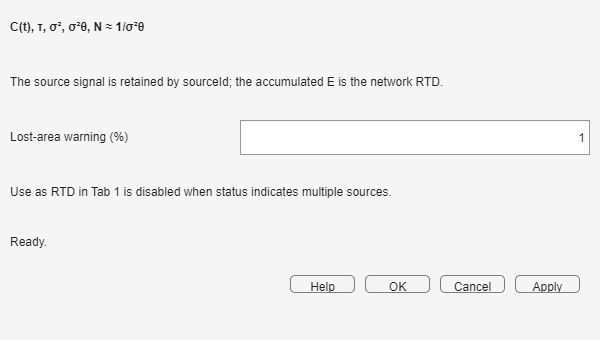
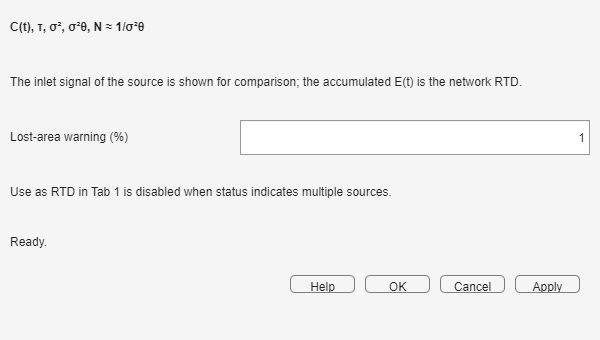
Make the tracer vessel dialog usable from the interface (T-200)
Fix the Vessel layout, add Add row/Remove/Import for RTD data and Browse
for sessions, enable only the controls of the selected origin, share the
two-column reader with the Source dialog and reword the Monitor note.

Changed region(s): [[0.06, 0.2059, 0.87, 0.2647]]

diff --git a/docs/guides/tracer-vessel.html b/docs/guides/tracer-vessel.html
@@ -4,6 +4,6 @@
 <section class="section" id="before"><h2>Before You Start</h2><p>Choose whether the residence time is known directly or from V/Q. Confirm that the final time is long enough to capture the RTD tail, especially for a CSTR or a low-Pe dispersion model.</p></section>
 <section class="section" id="dialog"><h2>Non-ideal Vessel Dialog</h2><figure class="figure-card"><img src="../assets/tracer/vessel-dialog.png" alt="Non-ideal Vessel dialog with model, residence basis, tanks, Peclet number, session, and RTD table"><figcaption>The visible fields support model, experimental-data, and saved-session origins.</figcaption></figure></section>
 <section class="section" id="models"><h2>Select an RTD Model</h2><table><tr><th>Model</th><th>What to enter</th><th>Interpretation</th></tr><tr><td>CSTR</td><td>&tau; or V with the incoming Q</td><td>Exponential tail for one perfectly mixed vessel.</td></tr><tr><td>PFR</td><td>&tau; or V with Q</td><td>Concentrated delay near the nominal residence time.</td></tr><tr><td>Tanks</td><td>&tau; or V, and integer N</td><td>N equal mixed tanks in series; larger N narrows the distribution.</td></tr><tr><td>Dispersion</td><td>&tau; or V, Peclet number Pe, open or closed boundary</td><td>Axial dispersion; larger Pe approaches plug flow. Boundary choice must match the experimental interpretation.</td></tr></table><ol><li>Select <strong>Model</strong> as the RTD origin.</li><li>Select the model and <strong>Tau</strong> or <strong>Volume</strong> basis.</li><li>Complete only the parameters required by that model and press <strong>Apply</strong>.</li></ol></section>
-<section class="section" id="data-session"><h2>Use RTD Data or a Session</h2><p>For <strong>Data</strong>, enter or import paired t and E values. The distribution is placed on the common grid and normalized for use. For <strong>Session</strong>, choose a saved Non-Ideal Reactor Analysis session containing an RTD; this reuses the measured or fitted distribution already prepared there.</p><div class="callout info"><strong>Series behavior:</strong> placing vessels one after another convolves their RTDs. Mean residence times and variances add when the captured time range is sufficient.</div></section>
+<section class="section" id="data-session"><h2>Use RTD Data or a Session</h2><h3>Tabulated data</h3><ol><li>Select <strong>Data</strong> as the RTD origin.</li><li>Enter paired t and E values in the table. Use <strong>Add row</strong> to append a pair or <strong>Remove</strong> to delete the last pair.</li><li>To load an existing two-column CSV, text, or spreadsheet file, press <strong>Import...</strong> and select it.</li><li>Press <strong>Apply</strong>. The distribution is placed on the common grid and normalized for use.</li></ol><h3>Saved analysis session</h3><ol><li>Select <strong>Session</strong> as the RTD origin.</li><li>Press <strong>Browse...</strong> and select a saved Non-Ideal Reactor Analysis <code>.mat</code> session containing an RTD.</li><li>Press <strong>Apply</strong> to reuse the measured or fitted distribution from that session.</li></ol><div class="callout info"><strong>Series behavior:</strong> placing vessels one after another convolves their RTDs. Mean residence times and variances add when the captured time range is sufficient.</div></section>
 <section class="section" id="mistakes"><h2>Frequent Errors</h2><table><tr><th>Symptom</th><th>What to do</th></tr><tr><td>Pe is requested</td><td>Enter a positive Peclet number and select the intended open or closed boundary.</td></tr><tr><td>Volume basis cannot be evaluated</td><td>Verify that the upstream source supplies a positive constant Q.</td></tr><tr><td>An RTD session cannot be used</td><td>Select a session that contains valid time and RTD data.</td></tr><tr><td>The CSTR tail is truncated</td><td>Increase t<sub>final</sub> in Tracer Flowsheet.</td></tr></table><div class="footer-nav"><a class="button alt" href="tracer-source.html">Previous: Tracer Source</a><a class="button" href="tracer-splitter.html">Next: Tracer Splitter</a></div></section>
 </div></body></html>

diff --git a/+nirp/+tracerflowsheet/VesselDialog.m b/+nirp/+tracerflowsheet/VesselDialog.m
@@ -2,25 +2,95 @@ classdef VesselDialog < handle
     % VesselDialog selects a model, data, or app session RTD.
     % =========================================================================
     % Javier Berenguer Sabater
-    % Created: October 22, 2026. Last update: October 22, 2026
+    % Created: October 22, 2026. Last update: October 23, 2026
     % =========================================================================
-    properties (SetAccess=private),BlockPath;Figure;OriginDropDown;ModelDropDown;BasisDropDown;TauField;VolumeField;NField;PeField;BoundaryDropDown;DataTable;SessionField;StatusLabel;end
+    properties (SetAccess=private)
+        BlockPath; Figure; OriginDropDown; ModelDropDown; BasisDropDown;
+        TauField; VolumeField; NField; PeField; BoundaryDropDown;
+        DataTable; SessionField; StatusLabel;
+        AddRowButton; RemoveRowButton; ImportButton; BrowseButton;
+    end
     methods
-        function obj=VesselDialog(block,varargin),p=inputParser;addParameter(p,'Visible','on');parse(p,varargin{:});obj.BlockPath=getfullname(block);assertSystem(obj.BlockPath,'nirp.tracerblocks.Vessel');obj.build(char(p.Results.Visible));obj.load();end
+        function obj=VesselDialog(block,varargin)
+            p=inputParser;addParameter(p,'Visible','on');parse(p,varargin{:});
+            obj.BlockPath=getfullname(block);assertSystem(obj.BlockPath,'nirp.tracerblocks.Vessel');
+            obj.build(char(p.Results.Visible));obj.load();
+        end
         function delete(obj),if ~isempty(obj.Figure)&&isvalid(obj.Figure),delete(obj.Figure),end,end
-        function setModel(obj,model,varargin),obj.OriginDropDown.Value='Model';obj.ModelDropDown.Value=char(model);for k=1:2:numel(varargin),name=lower(varargin{k});value=varargin{k+1};switch name,case 'tau',obj.BasisDropDown.Value='Tau';obj.TauField.Value=value;case 'volume',obj.BasisDropDown.Value='Volume';obj.VolumeField.Value=value;case 'n',obj.NField.Value=value;case 'pe',obj.PeField.Value=value;case 'boundary',obj.BoundaryDropDown.Value=char(value);end,end,end
-        function setData(obj,t,e),obj.OriginDropDown.Value='Data';obj.DataTable.Data=num2cell([t(:) e(:)]);end
-        function setSession(obj,path),obj.OriginDropDown.Value='Session';obj.SessionField.Value=char(path);end
-        function value=getValues(obj),value=struct('Origin',string(obj.OriginDropDown.Value),'Model',string(obj.ModelDropDown.Value),'Basis',string(obj.BasisDropDown.Value),'Tau',obj.TauField.Value,'Volume',obj.VolumeField.Value,'N',obj.NField.Value,'Pe',obj.PeField.Value,'Boundary',string(obj.BoundaryDropDown.Value),'Data',{obj.DataTable.Data},'Session',string(obj.SessionField.Value));end
-        function ok=apply(obj)
-            ok=false;try,nirp.tracerflowsheet.validateSeparation(bdroot(obj.BlockPath));grid=nirp.tracerflowsheet.gridForBlock(obj.BlockPath);origin=obj.OriginDropDown.Value;
-                switch origin
-                    case 'Model',if strcmp(obj.BasisDropDown.Value,'Volume'),parameters=struct('V',obj.VolumeField.Value);else,parameters=struct('tau',obj.TauField.Value);end;if strcmp(obj.ModelDropDown.Value,'Tanks'),parameters.N=obj.NField.Value;end;if strcmp(obj.ModelDropDown.Value,'Dispersion'),parameters.Pe=obj.PeField.Value;parameters.boundary=obj.BoundaryDropDown.Value;end;nirp.tracer.rtdModel(grid,obj.ModelDropDown.Value,parameters,1);set_param(obj.BlockPath,'Model',obj.ModelDropDown.Value,'ResidenceBasis',obj.BasisDropDown.Value,'Tau',num2str(obj.TauField.Value,17),'Volume',num2str(obj.VolumeField.Value,17),'N',num2str(obj.NField.Value,17),'Pe',num2str(obj.PeField.Value,17),'Boundary',obj.BoundaryDropDown.Value);
-                    case 'Data',d=cell2mat(obj.DataTable.Data(:,1:2));nirp.tracer.rtdData(grid,d(:,1),d(:,2));set_param(obj.BlockPath,'DataTime',mat2str(d(:,1)',17),'DataE',mat2str(d(:,2)',17));
-                    case 'Session',nirp.tracer.rtdSession(grid,obj.SessionField.Value);set_param(obj.BlockPath,'SessionFile',obj.SessionField.Value);
+        function setModel(obj,model,varargin)
+            obj.OriginDropDown.Value='Model';obj.ModelDropDown.Value=char(model);
+            for k=1:2:numel(varargin)
+                name=lower(varargin{k});value=varargin{k+1};
+                switch name
+                    case 'tau',obj.BasisDropDown.Value='Tau';obj.TauField.Value=value;
+                    case 'volume',obj.BasisDropDown.Value='Volume';obj.VolumeField.Value=value;
+                    case 'n',obj.NField.Value=value;
+                    case 'pe',obj.PeField.Value=value;
+                    case 'boundary',obj.BoundaryDropDown.Value=char(value);
                 end
-                set_param(obj.BlockPath,'Origin',origin);obj.StatusLabel.Text='Fully specified';obj.StatusLabel.BackgroundColor=[.82 .94 .82];ok=true;
-            catch e,obj.StatusLabel.Text=e.message;obj.StatusLabel.BackgroundColor=[1 .75 .75];end
+            end
+            obj.refreshControls();
+        end
+        function setData(obj,t,e)
+            obj.OriginDropDown.Value='Data';obj.DataTable.Data=num2cell([t(:) e(:)]);obj.refreshControls();
+        end
+        function addRow(obj)
+            data=obj.DataTable.Data;data(end+1,:)={0,0};obj.DataTable.Data=data;
+        end
+        function removeRow(obj)
+            data=obj.DataTable.Data;if size(data,1)>1,data(end,:)=[];obj.DataTable.Data=data;end
+        end
+        function importFile(obj,path)
+            data=nirp.tracerflowsheet.readTwoColumnFile(path,'RTD');obj.setData(data(:,1),data(:,2));
+        end
+        function importInteractive(obj)
+            [file,folder]=uigetfile({'*.csv;*.txt;*.xlsx','RTD data'},'Import RTD data');
+            if isequal(file,0),return,end
+            obj.importFile(fullfile(folder,file));
+        end
+        function setSession(obj,path),obj.setSessionFile(path);end
+        function setSessionFile(obj,path)
+            obj.OriginDropDown.Value='Session';obj.SessionField.Value=char(path);obj.refreshControls();
+        end
+        function browseSession(obj)
+            [file,folder]=uigetfile({'*.mat','MATLAB session (*.mat)'},'Select analysis session');
+            if isequal(file,0),return,end
+            obj.setSessionFile(fullfile(folder,file));
+        end
+        function value=getValues(obj)
+            value=struct('Origin',string(obj.OriginDropDown.Value),'Model',string(obj.ModelDropDown.Value), ...
+                'Basis',string(obj.BasisDropDown.Value),'Tau',obj.TauField.Value, ...
+                'Volume',obj.VolumeField.Value,'N',obj.NField.Value,'Pe',obj.PeField.Value, ...
+                'Boundary',string(obj.BoundaryDropDown.Value),'Data',{obj.DataTable.Data}, ...
+                'Session',string(obj.SessionField.Value));
+        end
+        function ok=apply(obj)
+            ok=false;
+            try
+                nirp.tracerflowsheet.validateSeparation(bdroot(obj.BlockPath));
+                grid=nirp.tracerflowsheet.gridForBlock(obj.BlockPath);origin=obj.OriginDropDown.Value;
+                switch origin
+                    case 'Model'
+                        if strcmp(obj.BasisDropDown.Value,'Volume'),parameters=struct('V',obj.VolumeField.Value);else,parameters=struct('tau',obj.TauField.Value);end
+                        if strcmp(obj.ModelDropDown.Value,'Tanks'),parameters.N=obj.NField.Value;end
+                        if strcmp(obj.ModelDropDown.Value,'Dispersion'),parameters.Pe=obj.PeField.Value;parameters.boundary=obj.BoundaryDropDown.Value;end
+                        nirp.tracer.rtdModel(grid,obj.ModelDropDown.Value,parameters,1);
+                        set_param(obj.BlockPath,'Model',obj.ModelDropDown.Value,'ResidenceBasis',obj.BasisDropDown.Value, ...
+                            'Tau',num2str(obj.TauField.Value,17),'Volume',num2str(obj.VolumeField.Value,17), ...
+                            'N',num2str(obj.NField.Value,17),'Pe',num2str(obj.PeField.Value,17), ...
+                            'Boundary',obj.BoundaryDropDown.Value);
+                    case 'Data'
+                        data=cell2mat(obj.DataTable.Data(:,1:2));nirp.tracer.rtdData(grid,data(:,1),data(:,2));
+                        set_param(obj.BlockPath,'DataTime',mat2str(data(:,1)',17),'DataE',mat2str(data(:,2)',17));
+                    case 'Session'
+                        nirp.tracer.rtdSession(grid,obj.SessionField.Value);
+                        set_param(obj.BlockPath,'SessionFile',obj.SessionField.Value);
+                end
+                set_param(obj.BlockPath,'Origin',origin);obj.StatusLabel.Text='Fully specified';
+                obj.StatusLabel.BackgroundColor=[.82 .94 .82];ok=true;
+            catch exception
+                obj.StatusLabel.Text=exception.message;obj.StatusLabel.BackgroundColor=[1 .75 .75];
+            end
         end
         function accept(obj),if obj.apply(),delete(obj),end,end
         function cancel(obj),delete(obj),end
@@ -32,9 +102,57 @@ classdef VesselDialog < handle
         end
     end
     methods (Access=private)
-        function load(obj),obj.OriginDropDown.Value=get_param(obj.BlockPath,'Origin');obj.ModelDropDown.Value=get_param(obj.BlockPath,'Model');obj.BasisDropDown.Value=get_param(obj.BlockPath,'ResidenceBasis');obj.TauField.Value=str2double(get_param(obj.BlockPath,'Tau'));obj.VolumeField.Value=str2double(get_param(obj.BlockPath,'Volume'));obj.NField.Value=str2double(get_param(obj.BlockPath,'N'));obj.PeField.Value=str2double(get_param(obj.BlockPath,'Pe'));obj.BoundaryDropDown.Value=get_param(obj.BlockPath,'Boundary');obj.DataTable.Data=num2cell([str2num(get_param(obj.BlockPath,'DataTime'))' str2num(get_param(obj.BlockPath,'DataE'))']);obj.SessionField.Value=get_param(obj.BlockPath,'SessionFile');end %#ok<ST2NM>
-        function build(obj,visible),obj.Figure=uifigure('Name','Non-ideal Vessel','Tag','NirpTracerVesselDialog','Visible',visible,'Position',[170 80 780 620]);g=uigridlayout(obj.Figure,[10 3],'RowHeight',{35,35,35,35,35,35,35,'1x',25,38},'ColumnWidth',{170,'1x',120});title=uilabel(g,'Text','$C_{out}(t)=C_{in}(t)*E_v(t)$','Interpreter','latex','FontWeight','bold');title.Layout.Column=[1 3];uilabel(g,'Text','RTD origin');obj.OriginDropDown=uidropdown(g,'Items',{'Model','Data','Session'});uilabel(g,'Text','');uilabel(g,'Text','Model');obj.ModelDropDown=uidropdown(g,'Items',{'CSTR','PFR','Tanks','Dispersion'});obj.BasisDropDown=uidropdown(g,'Items',{'Tau','Volume'});uilabel(g,'Text','Residence time, τ (s)');obj.TauField=uieditfield(g,'numeric');uilabel(g,'Text','');uilabel(g,'Text','Volume, V (m³)');obj.VolumeField=uieditfield(g,'numeric');uilabel(g,'Text','');uilabel(g,'Text','Tanks, N');obj.NField=uieditfield(g,'numeric');uilabel(g,'Text','');uilabel(g,'Text','Peclet number, Pe');obj.PeField=uieditfield(g,'numeric');obj.BoundaryDropDown=uidropdown(g,'Items',{'open','closed'});uilabel(g,'Text','Session (.mat)');obj.SessionField=uieditfield(g,'text');uilabel(g,'Text','');obj.DataTable=uitable(g,'ColumnName',{'t (s)','E (1/s)'},'ColumnEditable',true);obj.DataTable.Layout.Column=[1 3];obj.StatusLabel=uilabel(g,'Text','Ready.','WordWrap','on');obj.StatusLabel.Layout.Column=[1 3];buttons(obj,g,'vessel');end
+        function load(obj)
+            obj.OriginDropDown.Value=get_param(obj.BlockPath,'Origin');
+            obj.ModelDropDown.Value=get_param(obj.BlockPath,'Model');
+            obj.BasisDropDown.Value=get_param(obj.BlockPath,'ResidenceBasis');
+            obj.TauField.Value=str2double(get_param(obj.BlockPath,'Tau'));
+            obj.VolumeField.Value=str2double(get_param(obj.BlockPath,'Volume'));
+            obj.NField.Value=str2double(get_param(obj.BlockPath,'N'));
+            obj.PeField.Value=str2double(get_param(obj.BlockPath,'Pe'));
+            obj.BoundaryDropDown.Value=get_param(obj.BlockPath,'Boundary');
+            obj.DataTable.Data=num2cell([str2num(get_param(obj.BlockPath,'DataTime'))' str2num(get_param(obj.BlockPath,'DataE'))']); %#ok<ST2NM>
+            obj.SessionField.Value=get_param(obj.BlockPath,'SessionFile');obj.refreshControls();
+        end
+        function refreshControls(obj)
+            model=strcmp(obj.OriginDropDown.Value,'Model');data=strcmp(obj.OriginDropDown.Value,'Data');session=strcmp(obj.OriginDropDown.Value,'Session');
+            obj.ModelDropDown.Enable=onoff(model);obj.BasisDropDown.Enable=onoff(model);
+            obj.TauField.Enable=onoff(model&&strcmp(obj.BasisDropDown.Value,'Tau'));
+            obj.VolumeField.Enable=onoff(model&&strcmp(obj.BasisDropDown.Value,'Volume'));
+            obj.NField.Enable=onoff(model&&strcmp(obj.ModelDropDown.Value,'Tanks'));
+            dispersion=model&&strcmp(obj.ModelDropDown.Value,'Dispersion');
+            obj.PeField.Enable=onoff(dispersion);obj.BoundaryDropDown.Enable=onoff(dispersion);
+            obj.DataTable.Enable=onoff(data);obj.AddRowButton.Enable=onoff(data);
+            obj.RemoveRowButton.Enable=onoff(data);obj.ImportButton.Enable=onoff(data);
+            obj.SessionField.Enable=onoff(session);obj.BrowseButton.Enable=onoff(session);
+        end
+        function build(obj,visible)
+            obj.Figure=uifigure('Name','Non-ideal Vessel','Tag','NirpTracerVesselDialog', ...
+                'Visible',visible,'Position',[170 80 780 620]);
+            grid=uigridlayout(obj.Figure,[12 3],'RowHeight',{35,35,35,35,35,35,35,35,'1x',35,25,38}, ...
+                'ColumnWidth',{170,'1x',120});
+            title=uilabel(grid,'Text','$C_{out}(t)=C_{in}(t)*E_v(t)$','Interpreter','latex','FontWeight','bold');place(title,1,[1 3]);
+            place(uilabel(grid,'Text','RTD origin'),2,1);obj.OriginDropDown=uidropdown(grid,'Items',{'Model','Data','Session'},'ValueChangedFcn',@(~,~)obj.refreshControls());place(obj.OriginDropDown,2,2);
+            place(uilabel(grid,'Text','Model'),3,1);obj.ModelDropDown=uidropdown(grid,'Items',{'CSTR','PFR','Tanks','Dispersion'},'ValueChangedFcn',@(~,~)obj.refreshControls());place(obj.ModelDropDown,3,2);
+            obj.BasisDropDown=uidropdown(grid,'Items',{'Tau','Volume'},'ValueChangedFcn',@(~,~)obj.refreshControls());place(obj.BasisDropDown,3,3);
+            place(uilabel(grid,'Text','Residence time, τ (s)'),4,1);obj.TauField=uieditfield(grid,'numeric');place(obj.TauField,4,2);
+            place(uilabel(grid,'Text','Volume, V (m³)'),5,1);obj.VolumeField=uieditfield(grid,'numeric');place(obj.VolumeField,5,2);
+            place(uilabel(grid,'Text','Tanks, N'),6,1);obj.NField=uieditfield(grid,'numeric');place(obj.NField,6,2);
+            place(uilabel(grid,'Text','Peclet number, Pe'),7,1);obj.PeField=uieditfield(grid,'numeric');place(obj.PeField,7,2);
+            obj.BoundaryDropDown=uidropdown(grid,'Items',{'open','closed'});place(obj.BoundaryDropDown,7,3);
+            place(uilabel(grid,'Text','Session (.mat)'),8,1);obj.SessionField=uieditfield(grid,'text');place(obj.SessionField,8,2);
+            obj.BrowseButton=uibutton(grid,'Text','Browse...','ButtonPushedFcn',@(~,~)obj.browseSession());place(obj.BrowseButton,8,3);
+            obj.DataTable=uitable(grid,'ColumnName',{'t (s)','E (1/s)'},'ColumnEditable',true);place(obj.DataTable,9,[1 3]);
+            dataButtons=uigridlayout(grid,[1 4],'ColumnWidth',{75,75,75,'1x'},'Padding',[0 0 0 0]);place(dataButtons,10,[1 3]);
+            obj.AddRowButton=uibutton(dataButtons,'Text','Add row','ButtonPushedFcn',@(~,~)obj.addRow());
+            obj.RemoveRowButton=uibutton(dataButtons,'Text','Remove','ButtonPushedFcn',@(~,~)obj.removeRow());
+            obj.ImportButton=uibutton(dataButtons,'Text','Import...','ButtonPushedFcn',@(~,~)obj.importInteractive());
+            obj.StatusLabel=uilabel(grid,'Text','Ready.','WordWrap','on');place(obj.StatusLabel,11,[1 3]);
+            buttonRow(obj,grid,'vessel',12);
+        end
     end
 end
+function value=onoff(condition),if condition,value='on';else,value='off';end,end
+function place(control,row,column),control.Layout.Row=row;control.Layout.Column=column;end
 function assertSystem(block,expected),if string(get_param(block,'System'))~=expected,error('nirp:tracerflowsheet:InvalidBlock','Dialog received the wrong block type.'),end,end
-function buttons(obj,g,anchor),b=uigridlayout(g,[1 5],'ColumnWidth',{'1x',65,65,65,65});b.Layout.Column=[1 3];uilabel(b,'Text','');uibutton(b,'Text','Help','ButtonPushedFcn',@(~,~)openNirpGuide(nirp.tracerflowsheet.helpTarget(anchor)));uibutton(b,'Text','OK','ButtonPushedFcn',@(~,~)obj.accept());uibutton(b,'Text','Cancel','ButtonPushedFcn',@(~,~)obj.cancel());uibutton(b,'Text','Apply','ButtonPushedFcn',@(~,~)obj.apply());end
+function buttonRow(obj,grid,anchor,row),buttons=uigridlayout(grid,[1 5],'ColumnWidth',{'1x',65,65,65,65},'Padding',[0 0 0 0]);place(buttons,row,[1 3]);uilabel(buttons,'Text','');uibutton(buttons,'Text','Help','ButtonPushedFcn',@(~,~)openNirpGuide(nirp.tracerflowsheet.helpTarget(anchor)));uibutton(buttons,'Text','OK','ButtonPushedFcn',@(~,~)obj.accept());uibutton(buttons,'Text','Cancel','ButtonPushedFcn',@(~,~)obj.cancel());uibutton(buttons,'Text','Apply','ButtonPushedFcn',@(~,~)obj.apply());end

diff --git a/tests/NirpTracerBlocksTest.m b/tests/NirpTracerBlocksTest.m
@@ -2,7 +2,7 @@ classdef NirpTracerBlocksTest < matlab.unittest.TestCase
     % NirpTracerBlocksTest verifies tracer blocks, separation, and dialogs.
     % =========================================================================
     % Javier Berenguer Sabater
-    % Created: October 22, 2026. Last update: October 22, 2026
+    % Created: October 22, 2026. Last update: October 23, 2026
     % =========================================================================
     properties,Folder;end
     methods (TestMethodSetup)
@@ -36,6 +36,27 @@ classdef NirpTracerBlocksTest < matlab.unittest.TestCase
             m=nirp.tracerflowsheet.MixerDialog([name '/Mixer'],'Visible','off');m.setNumInputs(3);testCase.verifyTrue(m.apply());delete(m);m=nirp.tracerflowsheet.MixerDialog([name '/Mixer'],'Visible','off');testCase.verifyEqual(m.getValues(),3);delete(m);
             monitor=nirp.tracerflowsheet.MonitorDialog([name '/Monitor'],'Visible','off');monitor.WarningField.Value=2;testCase.verifyTrue(monitor.apply());delete(monitor);monitor=nirp.tracerflowsheet.MonitorDialog([name '/Monitor'],'Visible','off');testCase.verifyEqual(monitor.getValues(),0.02,'AbsTol',1e-14);delete(monitor);
         end
+        function vesselDialogLayoutAndControlsFollowOrigin(testCase)
+            name='tracer_vessel_layout';nirp.tracerflowsheet.new(name,testCase.Folder,'OpenModel',false);load_system(fullfile(testCase.Folder,[name '.slx']));
+            addTracer(name,'Vessel','nirp.tracerblocks.Vessel',[230 150 370 210],{});dialog=nirp.tracerflowsheet.VesselDialog([name '/Vessel'],'Visible','off');testCase.addTeardown(@()deleteValid(dialog));drawnow;
+            testCase.verifyGreaterThan(dialog.DataTable.Position(4),100);buttons=findall(dialog.Figure,'Type','uibutton');testCase.verifyLessThanOrEqual(max(arrayfun(@(button)button.Position(4),buttons)),40);
+            testCase.verifyEqual(string(dialog.DataTable.Enable),"off");testCase.verifyEqual(string(dialog.SessionField.Enable),"off");testCase.verifyEqual(string(dialog.TauField.Enable),"on");testCase.verifyEqual(string(dialog.VolumeField.Enable),"off");
+            dialog.setModel('Dispersion','volume',2,'Pe',10,'boundary','closed');testCase.verifyEqual(string(dialog.VolumeField.Enable),"on");testCase.verifyEqual(string(dialog.PeField.Enable),"on");testCase.verifyEqual(string(dialog.BoundaryDropDown.Enable),"on");testCase.verifyEqual(string(dialog.NField.Enable),"off");
+            dialog.setData([0 1 2],[0 1 0]);testCase.verifyEqual(string(dialog.DataTable.Enable),"on");testCase.verifyEqual(string(dialog.AddRowButton.Enable),"on");testCase.verifyEqual(string(dialog.ModelDropDown.Enable),"off");
+            dialog.setSessionFile(fullfile(fileparts(fileparts(mfilename('fullpath'))),'saves','SE51.mat'));testCase.verifyEqual(string(dialog.SessionField.Enable),"on");testCase.verifyEqual(string(dialog.BrowseButton.Enable),"on");testCase.verifyEqual(string(dialog.DataTable.Enable),"off");
+        end
+        function vesselDataButtonsImportAndApply(testCase)
+            name='tracer_vessel_data';nirp.tracerflowsheet.new(name,testCase.Folder,'OpenModel',false);load_system(fullfile(testCase.Folder,[name '.slx']));
+            addTracer(name,'Vessel','nirp.tracerblocks.Vessel',[230 150 370 210],{});block=[name '/Vessel'];dialog=nirp.tracerflowsheet.VesselDialog(block,'Visible','off');testCase.addTeardown(@()deleteValid(dialog));dialog.setData([0 1 2],[0 1 0]);
+            rows=size(dialog.DataTable.Data,1);dialog.addRow();testCase.verifyEqual(size(dialog.DataTable.Data,1),rows+1);dialog.removeRow();testCase.verifyEqual(size(dialog.DataTable.Data,1),rows);
+            file=fullfile(testCase.Folder,'rtd.csv');writematrix([0 0;1 1;2 0],file);dialog.importFile(file);testCase.verifyEqual(cell2mat(dialog.DataTable.Data),[0 0;1 1;2 0],'AbsTol',1e-14);
+            testCase.verifyTrue(dialog.apply());testCase.verifyEqual(get_param(block,'Origin'),'Data');testCase.verifyEqual(str2num(get_param(block,'DataTime')),[0 1 2],'AbsTol',1e-14); %#ok<ST2NM>
+        end
+        function vesselSessionFileApplies(testCase)
+            name='tracer_vessel_session';nirp.tracerflowsheet.new(name,testCase.Folder,'OpenModel',false);load_system(fullfile(testCase.Folder,[name '.slx']));
+            addTracer(name,'Vessel','nirp.tracerblocks.Vessel',[230 150 370 210],{});block=[name '/Vessel'];dialog=nirp.tracerflowsheet.VesselDialog(block,'Visible','off');testCase.addTeardown(@()deleteValid(dialog));session=fullfile(fileparts(fileparts(mfilename('fullpath'))),'saves','SE51.mat');
+            dialog.setSessionFile(session);testCase.verifyEqual(dialog.SessionField.Value,session);testCase.verifyTrue(dialog.apply());testCase.verifyEqual(get_param(block,'Origin'),'Session');testCase.verifyEqual(get_param(block,'SessionFile'),session);
+        end
         function splitterButtonsChangeOutletCountAndPorts(testCase)
             name='tracer_splitter_dialog';nirp.tracerflowsheet.new(name,testCase.Folder,'OpenModel',false);load_system(fullfile(testCase.Folder,[name '.slx']));
             addTracer(name,'Splitter','nirp.tracerblocks.Splitter',[240 150 390 230],{});block=[name '/Splitter'];dialog=nirp.tracerflowsheet.SplitterDialog(block,'Visible','off');testCase.addTeardown(@()deleteValid(dialog));
@@ -48,7 +69,7 @@ classdef NirpTracerBlocksTest < matlab.unittest.TestCase
             name='tracer_dialog_labels';nirp.tracerflowsheet.new(name,testCase.Folder,'OpenModel',false);load_system(fullfile(testCase.Folder,[name '.slx']));
             addTracer(name,'Source','nirp.tracerblocks.Source',[40 150 170 210],{});addTracer(name,'Vessel','nirp.tracerblocks.Vessel',[230 150 370 210],{});addTracer(name,'Splitter','nirp.tracerblocks.Splitter',[430 150 570 210],{});addTracer(name,'Mixer','nirp.tracerblocks.Mixer',[430 260 570 320],{});addTracer(name,'Monitor','nirp.tracerblocks.Monitor',[630 150 760 210],{});
             dialogs={nirp.tracerflowsheet.FlowsheetDialog([name '/Tracer Flowsheet'],'Visible','off'),nirp.tracerflowsheet.SourceDialog([name '/Source'],'Visible','off'),nirp.tracerflowsheet.VesselDialog([name '/Vessel'],'Visible','off'),nirp.tracerflowsheet.SplitterDialog([name '/Splitter'],'Visible','off'),nirp.tracerflowsheet.MixerDialog([name '/Mixer'],'Visible','off'),nirp.tracerflowsheet.MonitorDialog([name '/Monitor'],'Visible','off')};testCase.addTeardown(@()deleteDialogs(dialogs));
-            for dialogIndex=1:numel(dialogs),labels=findall(dialogs{dialogIndex}.Figure,'Type','uilabel');for labelIndex=1:numel(labels),text=string(labels(labelIndex).Text);if strcmpi(labels(labelIndex).Interpreter,'latex')&&contains(text,'\'),testCase.verifyTrue(startsWith(text,'$')&&endsWith(text,'$'),sprintf('Undelimited LaTeX in %s: %s',class(dialogs{dialogIndex}),text));elseif ~strcmpi(labels(labelIndex).Interpreter,'latex'),testCase.verifyFalse(contains(text,'\'),sprintf('Backslash in plain label from %s: %s',class(dialogs{dialogIndex}),text));end,end,end
+            for dialogIndex=1:numel(dialogs),labels=findall(dialogs{dialogIndex}.Figure,'Type','uilabel');for labelIndex=1:numel(labels),text=string(labels(labelIndex).Text);testCase.verifyFalse(contains(text,'sourceId'),sprintf('Internal sourceId text in %s',class(dialogs{dialogIndex})));if strcmpi(labels(labelIndex).Interpreter,'latex')&&contains(text,'\'),testCase.verifyTrue(startsWith(text,'$')&&endsWith(text,'$'),sprintf('Undelimited LaTeX in %s: %s',class(dialogs{dialogIndex}),text));elseif ~strcmpi(labels(labelIndex).Interpreter,'latex'),testCase.verifyFalse(contains(text,'\'),sprintf('Backslash in plain label from %s: %s',class(dialogs{dialogIndex}),text));end,end,end
         end
     end
 end

diff --git a/+nirp/+tracerflowsheet/MonitorDialog.m b/+nirp/+tracerflowsheet/MonitorDialog.m
@@ -2,7 +2,7 @@ classdef MonitorDialog < handle
     % MonitorDialog configures truncation warning and describes outputs.
     % =========================================================================
     % Javier Berenguer Sabater
-    % Created: October 22, 2026. Last update: October 22, 2026
+    % Created: October 22, 2026. Last update: October 23, 2026
     % =========================================================================
     properties (SetAccess=private),BlockPath;Figure;WarningField;StatusLabel;end
     methods
@@ -19,6 +19,6 @@ classdef MonitorDialog < handle
             dialog=nirp.tracerflowsheet.MonitorDialog(block);
         end
     end
-    methods (Access=private),function build(obj,visible),obj.Figure=uifigure('Name','Tracer Monitor','Tag','NirpTracerMonitorDialog','Visible',visible,'Position',[230 140 600 340]);g=uigridlayout(obj.Figure,[6 2],'RowHeight',{35,55,35,55,25,38},'ColumnWidth',{220,'1x'});t=uilabel(g,'Text','C(t), τ, σ², σ²θ, N ≈ 1/σ²θ','FontWeight','bold');t.Layout.Column=[1 2];note=uilabel(g,'Text','The source signal is retained by sourceId; the accumulated E is the network RTD.','WordWrap','on');note.Layout.Column=[1 2];uilabel(g,'Text','Lost-area warning (%)');obj.WarningField=uieditfield(g,'numeric');use=uilabel(g,'Text','Use as RTD in Tab 1 is disabled when status indicates multiple sources.','WordWrap','on');use.Layout.Column=[1 2];obj.StatusLabel=uilabel(g,'Text','Ready.');obj.StatusLabel.Layout.Column=[1 2];buttons(obj,g,'monitor');end,end
+    methods (Access=private),function build(obj,visible),obj.Figure=uifigure('Name','Tracer Monitor','Tag','NirpTracerMonitorDialog','Visible',visible,'Position',[230 140 600 340]);g=uigridlayout(obj.Figure,[6 2],'RowHeight',{35,55,35,55,25,38},'ColumnWidth',{220,'1x'});t=uilabel(g,'Text','C(t), τ, σ², σ²θ, N ≈ 1/σ²θ','FontWeight','bold');t.Layout.Column=[1 2];note=uilabel(g,'Text','The inlet signal of the source is shown for comparison; the accumulated E(t) is the network RTD.','WordWrap','on');note.Layout.Column=[1 2];uilabel(g,'Text','Lost-area warning (%)');obj.WarningField=uieditfield(g,'numeric');use=uilabel(g,'Text','Use as RTD in Tab 1 is disabled when status indicates multiple sources.','WordWrap','on');use.Layout.Column=[1 2];obj.StatusLabel=uilabel(g,'Text','Ready.');obj.StatusLabel.Layout.Column=[1 2];buttons(obj,g,'monitor');end,end
 end
 function buttons(obj,g,anchor),b=uigridlayout(g,[1 5],'ColumnWidth',{'1x',65,65,65,65});b.Layout.Column=[1 2];uilabel(b,'Text','');uibutton(b,'Text','Help','ButtonPushedFcn',@(~,~)openNirpGuide(nirp.tracerflowsheet.helpTarget(anchor)));uibutton(b,'Text','OK','ButtonPushedFcn',@(~,~)obj.accept());uibutton(b,'Text','Cancel','ButtonPushedFcn',@(~,~)obj.cancel());uibutton(b,'Text','Apply','ButtonPushedFcn',@(~,~)obj.apply());end

diff --git a/+nirp/+tracerflowsheet/SourceDialog.m b/+nirp/+tracerflowsheet/SourceDialog.m
@@ -2,7 +2,7 @@ classdef SourceDialog < handle
     % SourceDialog edits flow and a piecewise-function or tabular signal.
     % =========================================================================
     % Javier Berenguer Sabater
-    % Created: October 22, 2026. Last update: October 22, 2026
+    % Created: October 22, 2026. Last update: October 23, 2026
     % =========================================================================
     properties (SetAccess=private),BlockPath;Figure;QField;QUnitDropDown;ModeDropDown;SignalTable;StatusLabel;end
     methods
@@ -13,7 +13,7 @@ classdef SourceDialog < handle
         function setFunction(obj,edges,expressions),obj.ModeDropDown.Value='Function';expressions=cellstr(string(expressions));obj.SignalTable.ColumnName={'Start t (s)','End t (s)','C(t) expression'};obj.SignalTable.Data=[num2cell([edges(1:end-1)' edges(2:end)']) expressions(:)];end
         function addRow(obj),d=obj.SignalTable.Data;if strcmp(obj.ModeDropDown.Value,'Data'),d(end+1,:)={0,0};else,d(end+1,:)={0,1,'0'};end;obj.SignalTable.Data=d;end
         function removeRow(obj),d=obj.SignalTable.Data;if size(d,1)>1,d(end,:)=[];obj.SignalTable.Data=d;end,end
-        function importFile(obj,path),data=readmatrix(path);if size(data,2)<2,error('nirp:tracerflowsheet:InvalidImport','Imported signal needs time and concentration columns.'),end;obj.setData(data(:,1),data(:,2));end
+        function importFile(obj,path),data=nirp.tracerflowsheet.readTwoColumnFile(path,'Signal');obj.setData(data(:,1),data(:,2));end
         function importInteractive(obj),[file,folder]=uigetfile({'*.csv;*.txt;*.xlsx','Signal data'},'Import tracer signal');if isequal(file,0),return,end;obj.importFile(fullfile(folder,file));end
         function value=getValues(obj),value=struct('Q',obj.QField.Value,'QUnit',string(obj.QUnitDropDown.Value),'Mode',string(obj.ModeDropDown.Value),'Data',{obj.SignalTable.Data});end
         function ok=apply(obj)

diff --git a/+nirp/+tracerflowsheet/readTwoColumnFile.m b/+nirp/+tracerflowsheet/readTwoColumnFile.m
@@ -1,0 +1,16 @@
+function data = readTwoColumnFile(path, description)
+% readTwoColumnFile reads the first two columns of tracer input data.
+% =========================================================================
+% Javier Berenguer Sabater
+% Created: October 23, 2026. Last update: October 23, 2026
+% =========================================================================
+if nargin < 2
+    description = 'Tracer';
+end
+data = readmatrix(path) ;
+if size(data, 2) < 2
+    error('nirp:tracerflowsheet:InvalidImport', ...
+        '%s data needs two columns.', description) ;
+end
+data = data(:, 1:2) ;
+end
